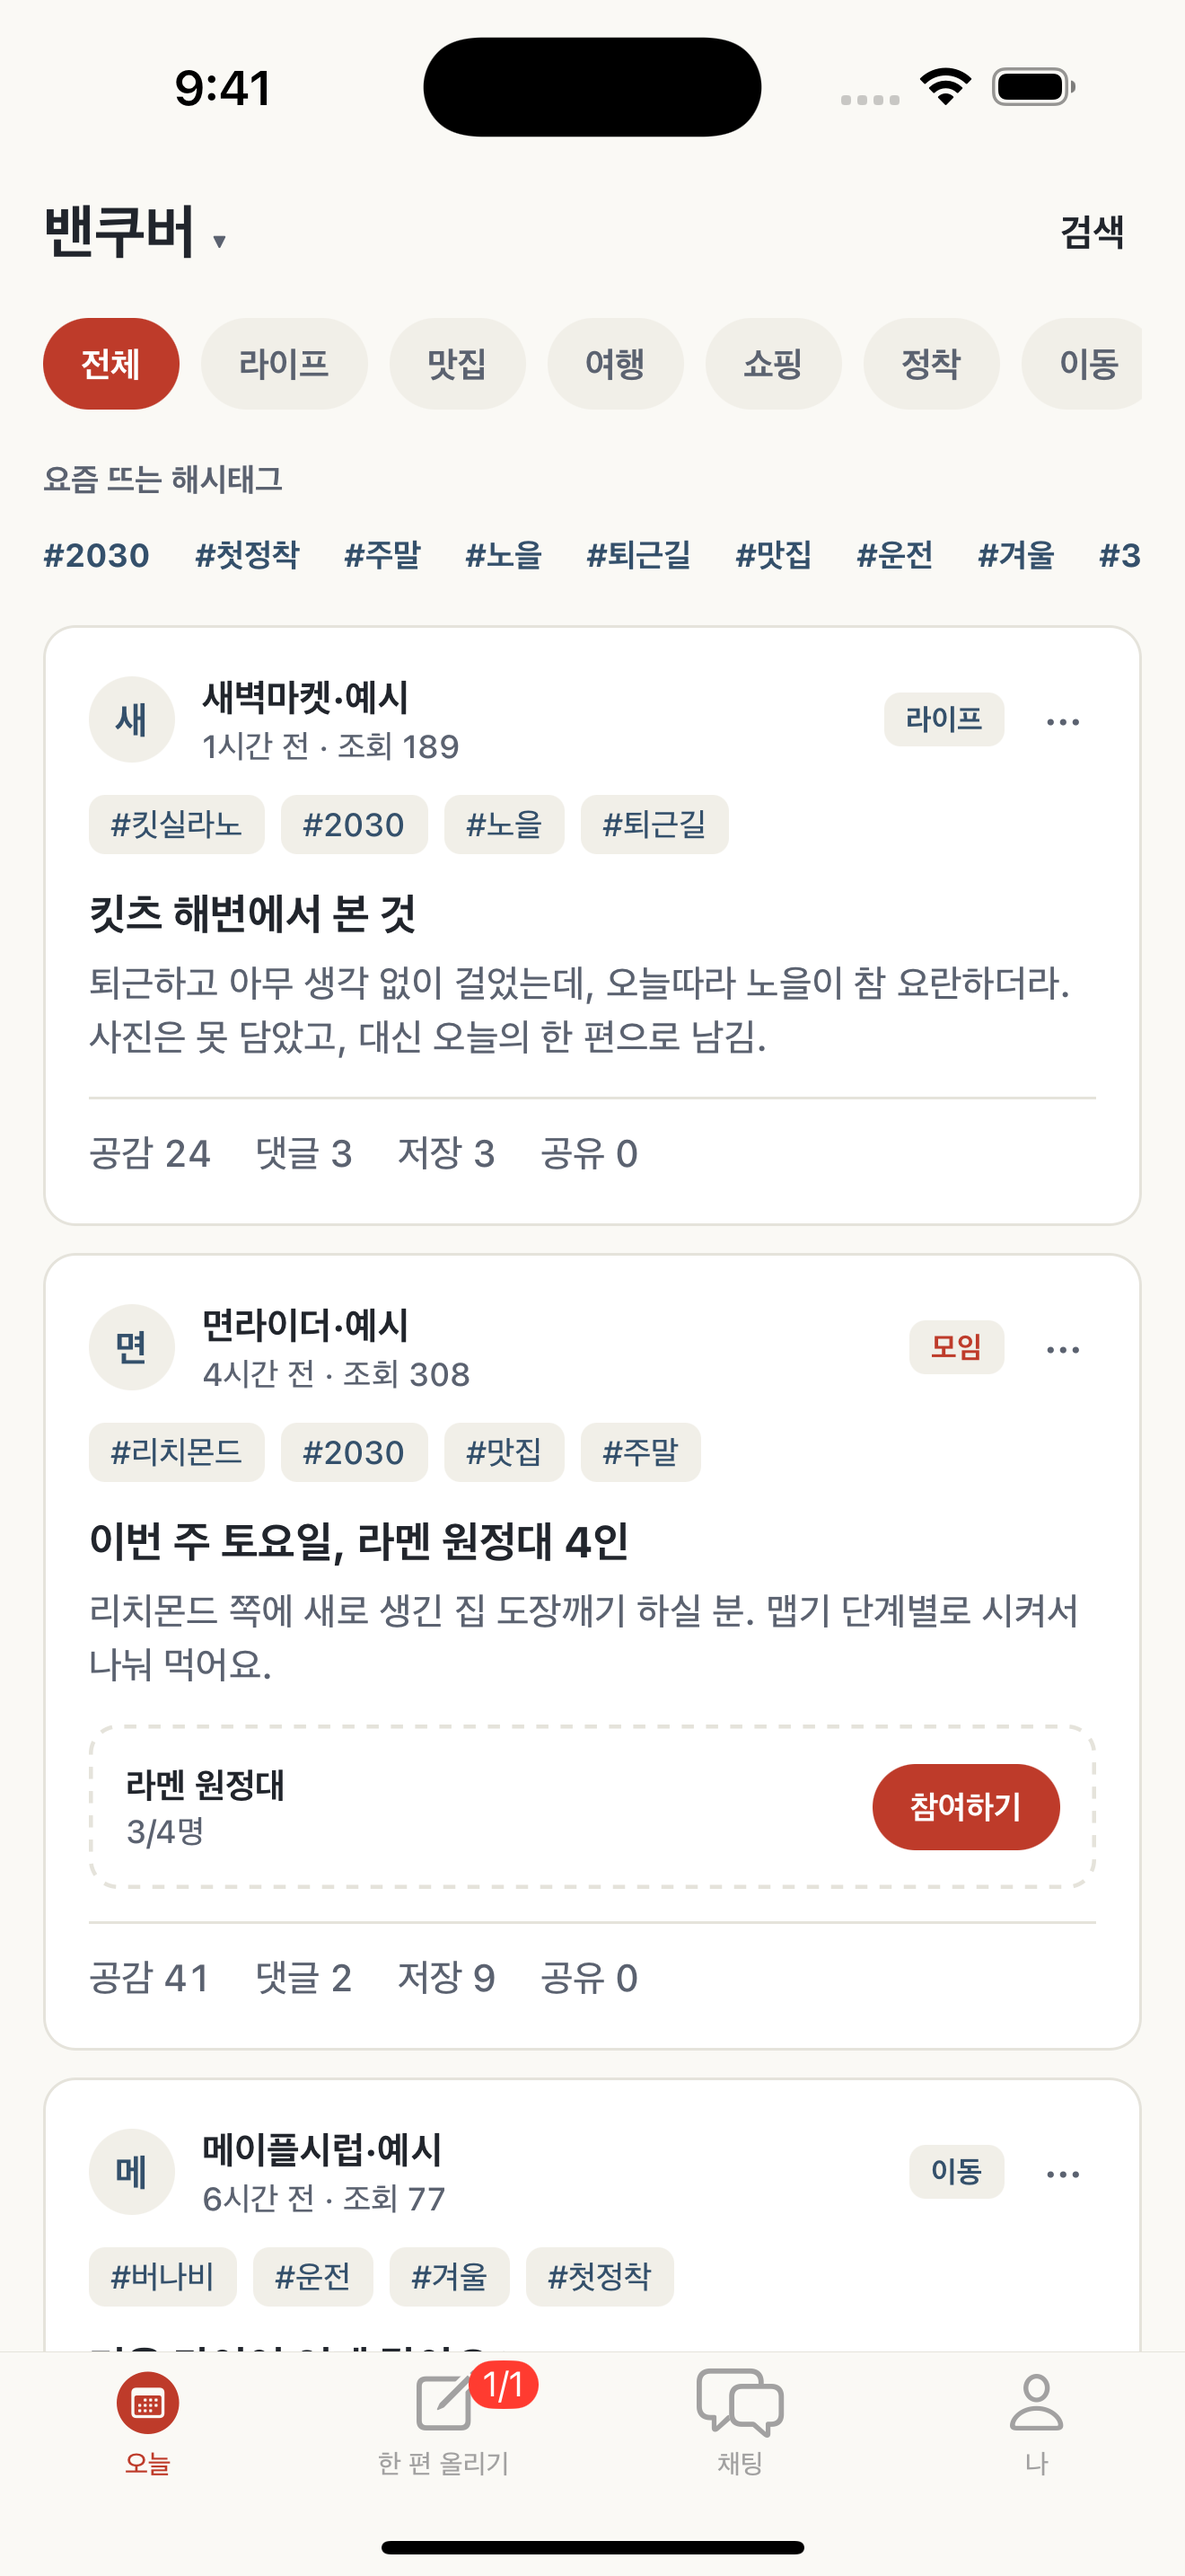
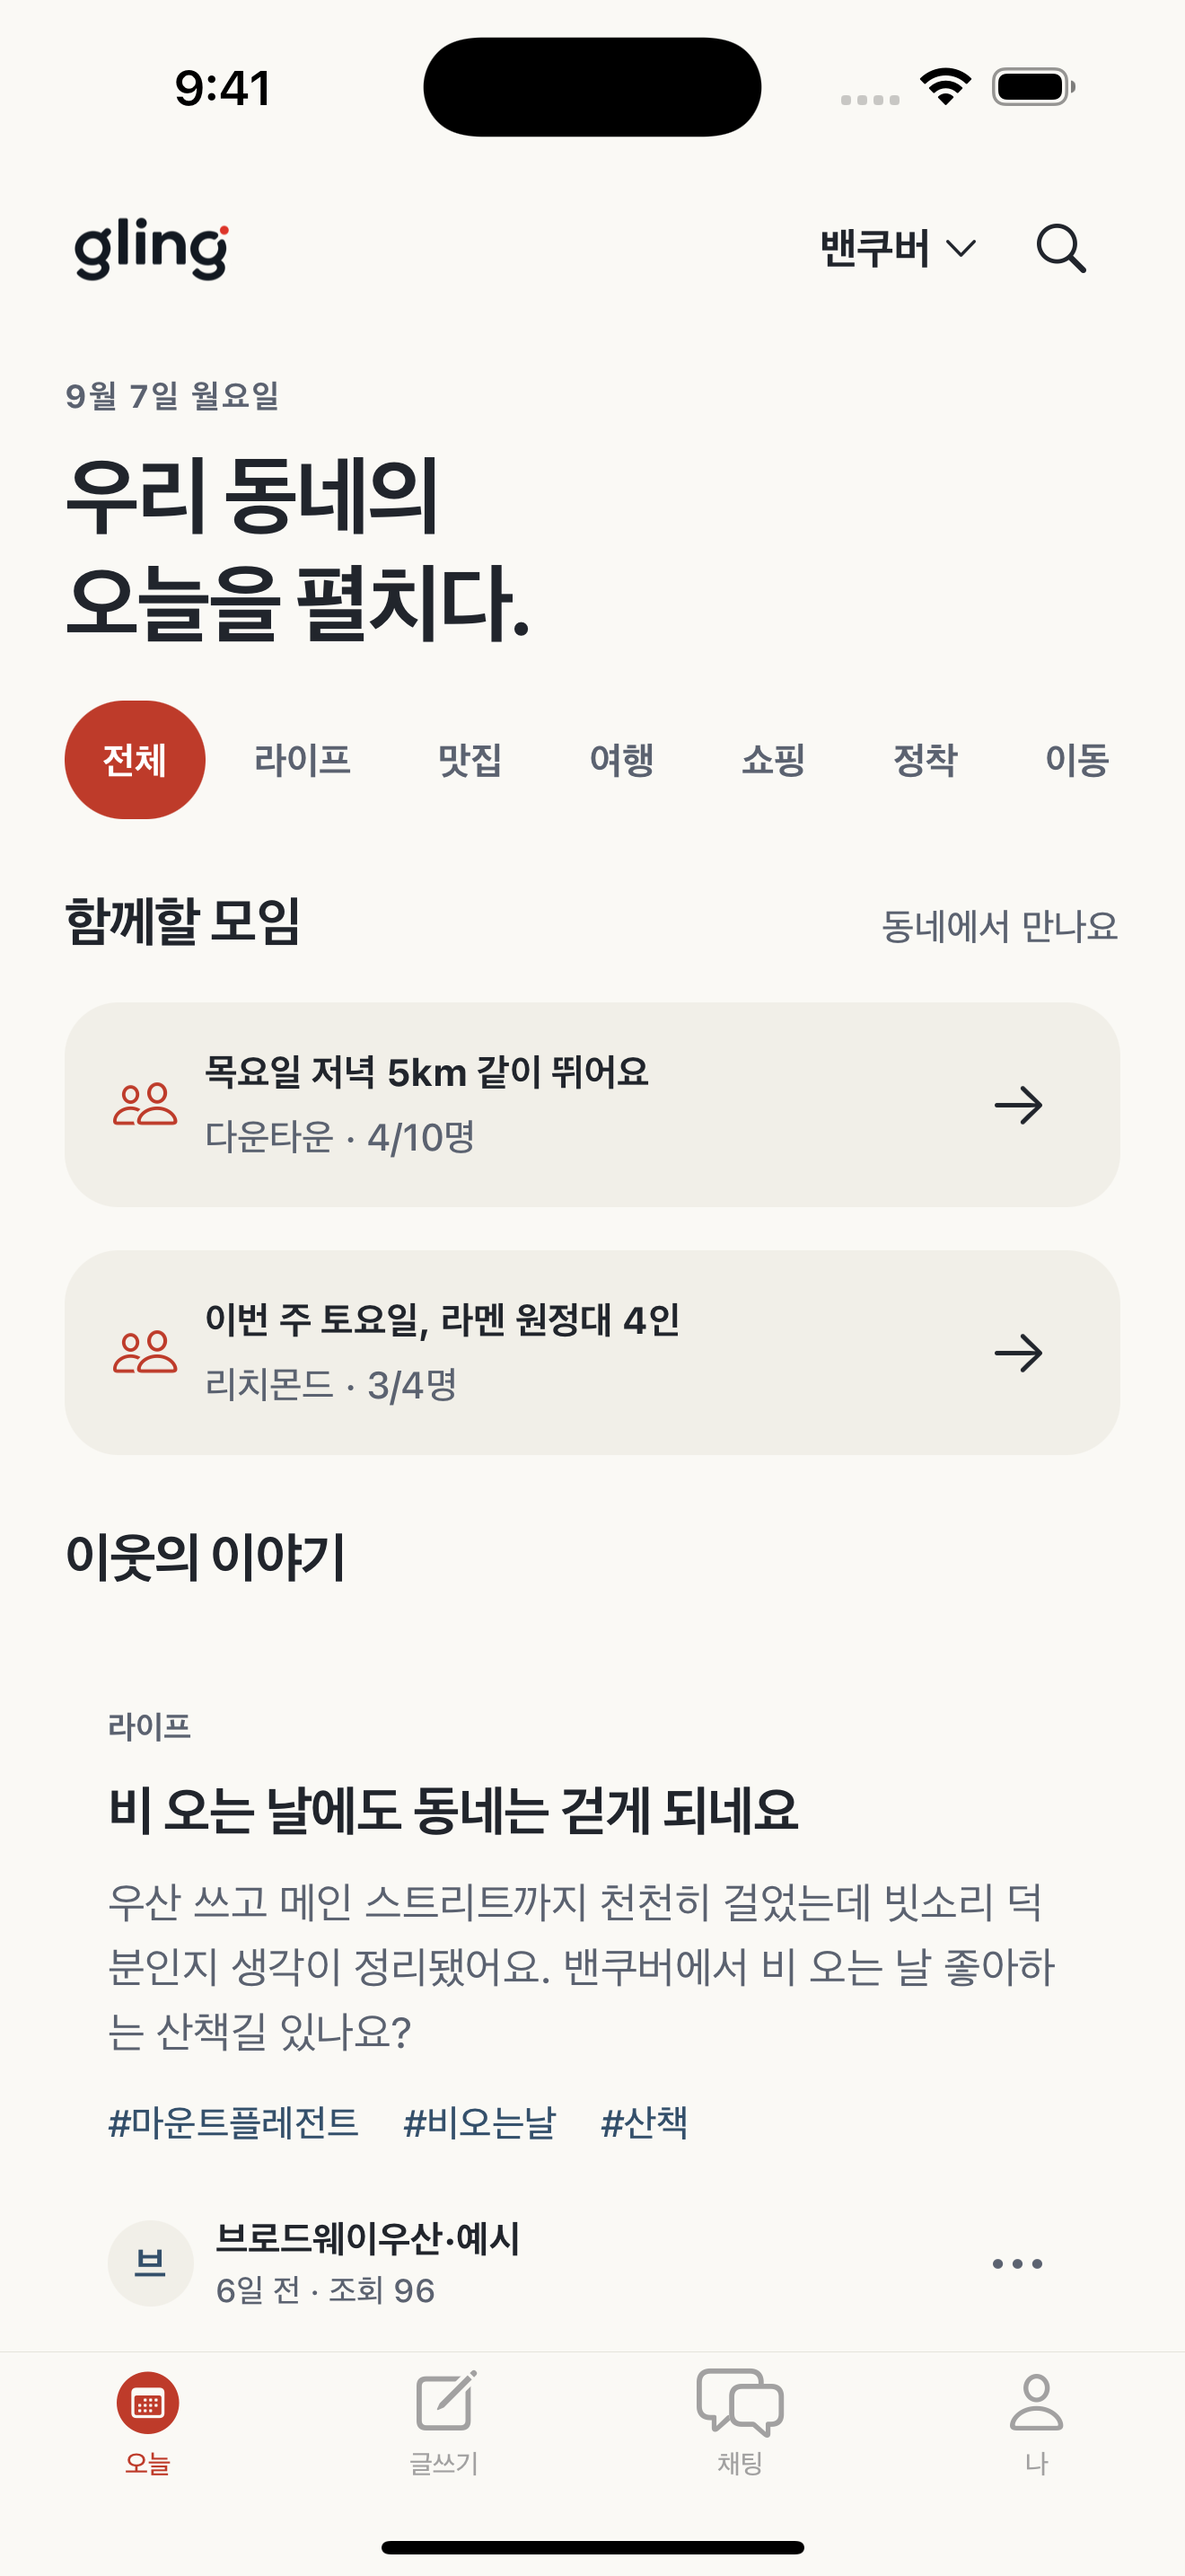
chore: prepare Gling build 2 and refresh store screenshots

diff --git a/tasks/store-update-2026-09-07.md b/tasks/store-update-2026-09-07.md
@@ -1,0 +1,46 @@
+# 글링 B 디자인 스토어 업데이트 — 2026-09-07
+
+기존 `dlwpdl/gling` / `mobile-app`의 디자인 커밋 `4d56545`를 배포 파일로 만들었다. 첫 출시 전 버전 `1.0.0`을 유지하고 iOS buildNumber와 Android versionCode를 `2`로 올렸다. 앱 표시명은 `글링`, 양쪽 식별자는 `com.dlwpdl.gling`이다.
+
+## 원격 반영 결과
+
+- [App Store Connect](https://appstoreconnect.apple.com/apps/6809273242/distribution/ios/version/inflight): 새 빌드 `292241c4-188a-498e-963c-45b0b369af32`가 `VALID`이고 기존 버전 `1fe513b3-ec8d-4b00-bc4e-09c6a5087088`에 연결됐다. 상태는 `PREPARE_FOR_SUBMISSION`, 수동 출시다.
+- 한국어 스크린샷 세트 `4c961af8-7a85-42c4-b603-c002f5092525`의 이미지 3장을 교체했다. 새 이미지의 `COMPLETE`와 MD5 일치를 확인한 뒤 이전 3장을 삭제했고, 최종 개수·순서·체크섬을 다시 검증했다.
+- [한국어 변경 안내](../release/notes-1.0.0-2-ko.txt)와 남은 검증 범위를 TestFlight What to Test에 저장했다. 테스터 초대·배포·심사 제출은 하지 않았다.
+- [Google Play Console](https://play.google.com/console/u/0/developers/4802509944213002773/app/4972349784406622597/app-dashboard): Eunsense Studio 로그인 세션이 없어 **빌드 2 업로드와 스크린샷 교체는 대기 중**이다. 기존 내부 테스트 트랙 `4701555384444643122`의 빌드 1 초안이 마지막으로 확인된 상태다. 다른 계정이나 앱에는 변경하지 않았다.
+
+새 iOS 스크린샷 ID는 순서대로 `109f70ce-b208-4e2e-af3d-a0bcd2cf5318`, `5112cc08-8024-4a67-ad64-d55c069ceb07`, `4d515388-d27c-4d5d-b393-26fef76f5e08`이다.
+
+## 빌드와 보관
+
+배포 파일은 `~/Library/Application Support/gling/releases/1.0.0-2/`에 보관했다. 같은 폴더에 `dSYMs.zip`과 `notes-ko.txt`가 있다. 서명 키와 인증 정보는 기존 보호 위치를 재사용하며 Git에 넣지 않는다. 작업 로그와 원격 재조회 결과는 `/tmp/gling-store-update-2/`에 있다.
+
+| 파일 | SHA-256 |
+| --- | --- |
[3 lines of base64/hex data omitted]
+
+`CI=1 npx --no-install expo prebuild --no-install`과 `pod install --project-directory=ios`로 네이티브 프로젝트를 생성했다. 한글 표시명 때문에 현재 iOS workspace는 `ios/app.xcworkspace`, scheme은 `app`이다. 이전 기록의 `gling` 경로는 당시 생성된 이름이다. Release 시뮬레이터 빌드, 기기 Archive, `app-store-connect` 방식의 Export를 완료했다. ExportOptions는 기존 `/tmp/gling-release/ExportOptions.plist`를 재사용했다.
+
+Android는 [기존 출시 명령](google-play-release-2026-09-06.md#빌드서명과-재현)의 AGP 서명 주입으로 `bundleRelease`와 `assembleRelease`를 실행했다. JDK 17과 기존 Android SDK를 사용했다. AAB·APK 인증서 SHA-256은 기존 키와 같은 `41:3E:75:95:7C:F6:04:FD:22:5A:37:52:7C:CE:90:B7:37:9F:32:26:B5:72:F2:B5:89:C7:73:96:DC:BF:EF:BD`다.
+
+## 검증
+
+- `npm test` 38/38, TypeScript, ESLint, `expo install --check` 통과. 운영 의존성 감사의 high·critical은 0, 기존 moderate 14개는 남아 있다.
+- IPA의 실제 번들 ID·표시명·버전·빌드 번호·암호화 선언을 확인했다. `codesign --verify --deep --strict`와 App Store entitlement 검사 통과.
+- AAB의 `jarsigner -verify`, APK의 `apksigner verify`와 16KB zip 정렬 검사 통과. targetSdk 36, versionCode 2, 비디버그 빌드이며 SYSTEM_ALERT_WINDOW·RECORD_AUDIO 권한이 없다.
+- `asc validate testflight`는 새 빌드 기준 오류 0·경고 0. Apple 처리 완료와 버전의 빌드 연결을 API로 재조회했다.
+- [iOS 스크린샷](../release/app-store/README.md) 3장은 iPhone 16 Pro Max / iOS 18.4 Release의 1320×2868 화면이다. 도시 선택, 글쓰기 로그인 안내와 둘러보기 복귀를 확인했다. 시뮬레이터에서 토론토가 잠시 빈 상태로 표시된 뒤 재시작 후 예시 피드를 확인했으므로 실시간 피드의 안정성은 실기기에서도 재확인해야 한다.
+- [Android 스크린샷](../release/google-play/README.md) 4장은 Pixel 9 / Android 16(API 36) Release의 1080×1920 화면이다. 설치·실행·밴쿠버/토론토 전환·맛집 필터·게스트 글쓰기 로그인 안내를 확인했다. 로그인 안내와 도시 시트에서 시스템 뒤로가기로 피드에 복귀했고, 확인한 AndroidRuntime·ReactNativeJS 오류 로그는 비어 있었다. 창 렌더러가 멈춰 최종 검증은 같은 AVD를 `-no-window -no-audio -gpu swiftshader`로 다시 실행했다.
+- 이미지는 실제 앱에서 촬영했으며 서버 시드와 앱에 포함된 예시 게시글 표기를 유지했다. 디자인 보고서의 합성 사진은 넣지 않았다. Apple/Kakao 계정 인증 완료, 로그인 후 작성·댓글·메시지 전체 흐름, iOS 시트의 손가락 드래그는 이번 검증에 포함되지 않는다.
+
+## 이어서 할 일과 되돌리기
+
+Play Console의 Eunsense Studio 로그인을 복구하면 위 AAB를 기존 내부 테스트 초안에 올리고, 변경 안내와 `release/google-play/phone/`의 PNG 4장을 반영한 뒤 저장 결과를 재조회한다.
+
+공개 심사 검사는 기존 필수 누락 26개(연령 설문 24개, 심사 정보, 배포 국가)를 보고했다. App Privacy, 실제 인증, 서버 안전 분석·관리자 알림과 테스트 요건 등은 [기존 출시 기록](release-status-2026-09-06.md#심사-제출-전-필수-작업)을 따른다. 빌드·이미지 업데이트는 공개 출시 완료를 의미하지 않는다.
+
+문제가 생기면 ASC 초안의 선택 빌드를 기존 빌드 `b6712770-ae17-4267-90f0-37ab3bac8b39`로 돌리고 Git의 이전 스크린샷을 다시 올린다. DB·서버 설정 변경은 없다.
+
+기준: [Apple 빌드 업로드](https://developer.apple.com/help/app-store-connect/manage-builds/upload-builds/), [Apple 스크린샷 규격](https://developer.apple.com/help/app-store-connect/reference/app-information/screenshot-specifications/), [Google Play 버전 준비](https://support.google.com/googleplay/android-developer/answer/9859348), [Expo SDK 57](https://docs.expo.dev/versions/v57.0.0/).

diff --git a/release/app-store/README.md b/release/app-store/README.md
@@ -1,16 +1,16 @@
 # App Store 화면 자료
 
-`ios-6.9/`의 PNG 3장은 2026-09-06에 iPhone 16 Pro Max / iOS 18.4 시뮬레이터에서 실행한 실제 iOS Release 1.0.0 (1) 화면입니다. 각각 1320×2868 픽셀이며 이미지 편집이나 가상 UI 합성을 하지 않았습니다.
+`ios-6.9/`의 PNG 3장은 2026-09-07에 iPhone 16 Pro Max / iOS 18.4 시뮬레이터에서 실행한 실제 iOS Release 1.0.0 (2)의 B 동네 저널 디자인입니다. 각각 1320×2868 픽셀이며 이미지 편집이나 가상 UI 합성을 하지 않았습니다.
 
 1. `01-vancouver.png`: 밴쿠버 피드와 모임 카드
 2. `02-toronto.png`: 토론토 피드
 3. `03-cities.png`: 운영 중인 도시와 준비 중인 도시
 
-App Store Connect의 한국어 6.9인치 슬롯에 위 순서로 3장 업로드했으며, 6.5인치 슬롯도 이 자료를 사용하도록 표시됩니다.
+App Store Connect의 기존 한국어 6.9인치 슬롯(API의 `APP_IPHONE_67`)을 위 순서의 새 이미지 3장으로 교체했습니다. 새 이미지가 모두 `COMPLETE`이고 원격 체크섬이 로컬과 일치함을 확인한 뒤 이전 3장을 삭제했습니다.
 
-화면의 예시 게시글 표기를 유지했습니다. 로그인 없이 피드·지역 선택을 확인했고, 상세 글 탭 시 로그인 안내와 둘러보기 복귀를 확인했습니다. Apple/Kakao 인증 완료나 로그인 이후 흐름은 이 자료의 검증 범위에 포함되지 않습니다.
+화면의 예시 게시글 표기를 유지했습니다. 서버 시드와 앱에 포함된 예시 데이터가 표시된 실제 화면입니다. 로그인 없이 피드·지역 선택, 글쓰기 로그인 안내와 둘러보기 복귀를 확인했습니다. Apple/Kakao 인증 완료나 로그인 이후 흐름은 이 자료의 검증 범위에 포함되지 않습니다.
 
-재현: [출시 기록](../../tasks/release-status-2026-09-06.md)의 Release 빌드를 시뮬레이터에 설치하고 `xcrun simctl io <device-udid> screenshot <path.png>`로 저장합니다. 첫 화면의 글쓰기 탭이 정상 크기로 표시되는지도 확인합니다.
+재현: [빌드 2 업데이트 기록](../../tasks/store-update-2026-09-07.md)의 Release 빌드를 시뮬레이터에 설치하고 `xcrun simctl io <device-udid> screenshot <path.png>`로 저장합니다. 현재 생성되는 workspace와 scheme 이름은 `app`입니다.
 
 ## App Store Connect CLI 5.0.0
 
@@ -23,7 +23,7 @@ asc metadata validate --dir release/app-store/metadata --check-urls
 asc --profile gling status --app 6809273242
 asc --profile gling metadata apply --app 6809273242 --version 1.0.0 --platform IOS --dir release/app-store/metadata --dry-run
 asc --profile gling validate --app 6809273242 --version 1.0.0 --platform IOS --check-urls
-asc --profile gling validate testflight --app 6809273242 --build-id b6712770-ae17-4267-90f0-37ab3bac8b39
+asc --profile gling validate testflight --app 6809273242 --build-id 292241c4-188a-498e-963c-45b0b369af32
 asc --profile gling builds next-build-number --app 6809273242 --version 1.0.0 --platform IOS
 ```
 
@@ -38,10 +38,10 @@ API 인증과 `asc web auth login`은 별개입니다. 현재 CLI 웹 세션은 
 - 이름·부제와 중복된 검색 키워드 제거. 적용 후 메타데이터 차이는 0건입니다.
 - TestFlight 심사 연락처와 한국어 테스트 안내. 이름·전화번호는 Rottery의 등록 정보를 재사용하고 이메일은 글링의 기존 지원 주소를 사용했습니다. 안내에는 인증 이후 기능과 안전 처리의 추가 검증 필요성을 명시했습니다.
 
-`validate testflight`는 오류·경고 0입니다. 빌드 `1.0.0 (1)`은 `VALID`, 수출 규정 응답은 `usesNonExemptEncryption=false`이며 다음 빌드 번호는 `2`입니다. 이 결과는 테스터 배포나 외부 베타 심사 승인을 의미하지 않습니다. 앱은 계속 수동 출시의 `PREPARE_FOR_SUBMISSION` 상태입니다.
+새 빌드 `1.0.0 (2)`를 업로드하고 기존 버전 초안에 연결했습니다. 빌드는 `VALID`, `validate testflight`는 오류·경고 0이며 수출 규정 응답은 `usesNonExemptEncryption=false`입니다. [한국어 변경 안내](../notes-1.0.0-2-ko.txt)와 남은 검증 범위를 What to Test에 저장했습니다. 이 결과는 테스터 배포나 외부 베타 심사 승인을 의미하지 않습니다. 앱은 계속 수동 출시의 `PREPARE_FOR_SUBMISSION` 상태입니다.
 
 공개 심사 `validate`는 오류 26개, 경고 0개를 보고합니다: 연령 설문 미응답 24개, 심사 정보 미생성 1개, 배포 국가 미설정 1개입니다. Apple은 연령 설문의 부분 저장을 거절했고, CLI는 심사 로그인 필요 설정에 실제 사용자 이름·암호를 요구하므로 임의 응답이나 가짜 계정을 넣지 않았습니다. App Privacy 미작성과 운영 필수 검증은 이 오류 개수와 별개로 남습니다.
 
-원격 상태를 확인한 뒤 `--dry-run`의 변경 내역을 검토하고 필요한 메타데이터만 반영합니다. 다음 네이티브 업로드는 조회한 새 빌드 번호를 사용해 `글링` 홈 화면 이름과 수출 규정 설정을 포함합니다. [출시 기록의 운영 필수 작업](../../tasks/release-status-2026-09-06.md#심사-제출-전-필수-작업)과 심사 연락처·개인정보·연령 등급 확인은 계속 남아 있습니다. 로컬 메타데이터 검증 통과는 심사 제출 준비 완료를 의미하지 않습니다.
+원격 상태를 확인한 뒤 `--dry-run`의 변경 내역을 검토하고 필요한 메타데이터만 반영합니다. 빌드 2에는 `글링` 홈 화면 이름과 수출 규정 설정이 포함됐습니다. [출시 기록의 운영 필수 작업](../../tasks/release-status-2026-09-06.md#심사-제출-전-필수-작업)과 심사 연락처·개인정보·연령 등급 확인은 계속 남아 있습니다. 로컬 메타데이터 검증 통과는 심사 제출 준비 완료를 의미하지 않습니다.
 
 명령 출처: 설치된 CLI의 `--help` 및 [CLI 프로젝트 문서](https://github.com/rorkai/App-Store-Connect-CLI).

diff --git a/release/google-play/README.md b/release/google-play/README.md
@@ -2,9 +2,11 @@
 
 - `icon-512.png`: 기존 `assets/brand/gling-app-icon.png`를 macOS `sips -z 512 512`로 내보낸 512×512 PNG.
 - `feature-graphic.png`: 기존 글링 로고·아이콘을 참조해 생성한 홍보 이미지. 1024×500 PNG로 `sips` 내보내기 후 한국어 문구와 로고를 확인했다.
-- `phone/`: Android 16(API 36), Pixel 9 에뮬레이터의 실제 Release 1.0.0 (1) 화면. 화면 크기 1080×1920, 밀도 420dpi. `adb exec-out screencap -p`로 촬영했으며 화면 합성·보정은 하지 않았다. 예시 게시글 표기를 유지했다.
+- `phone/`: 2026-09-07에 Android 16(API 36), Pixel 9 에뮬레이터에서 촬영한 실제 Release 1.0.0 (2)의 B 동네 저널 디자인. 화면 크기 1080×1920, 밀도 420dpi. `adb exec-out screencap -p`로 촬영했으며 화면 합성·보정은 하지 않았다. 예시 게시글 표기를 유지했다.
 
 화면 순서: 밴쿠버 피드, 토론토 피드, 도시 선택, 맛집 카테고리. 로그인 없이 탐색하는 화면이며 실제 계정 인증 성공을 의미하지 않는다.
+
+빌드 2의 서명된 AAB·APK, 새 스크린샷 4장과 [한국어 변경 안내](../notes-1.0.0-2-ko.txt)를 준비했다. 현재 Eunsense Studio의 Play Console 로그인 복구를 기다리고 있어 원격 스크린샷과 내부 테스트 초안은 아직 빌드 1 상태다. 업로드 대상과 보관 위치는 [빌드 2 업데이트 기록](../../tasks/store-update-2026-09-07.md)에 있다.
 
 ## 홍보 이미지 생성 기록
 
